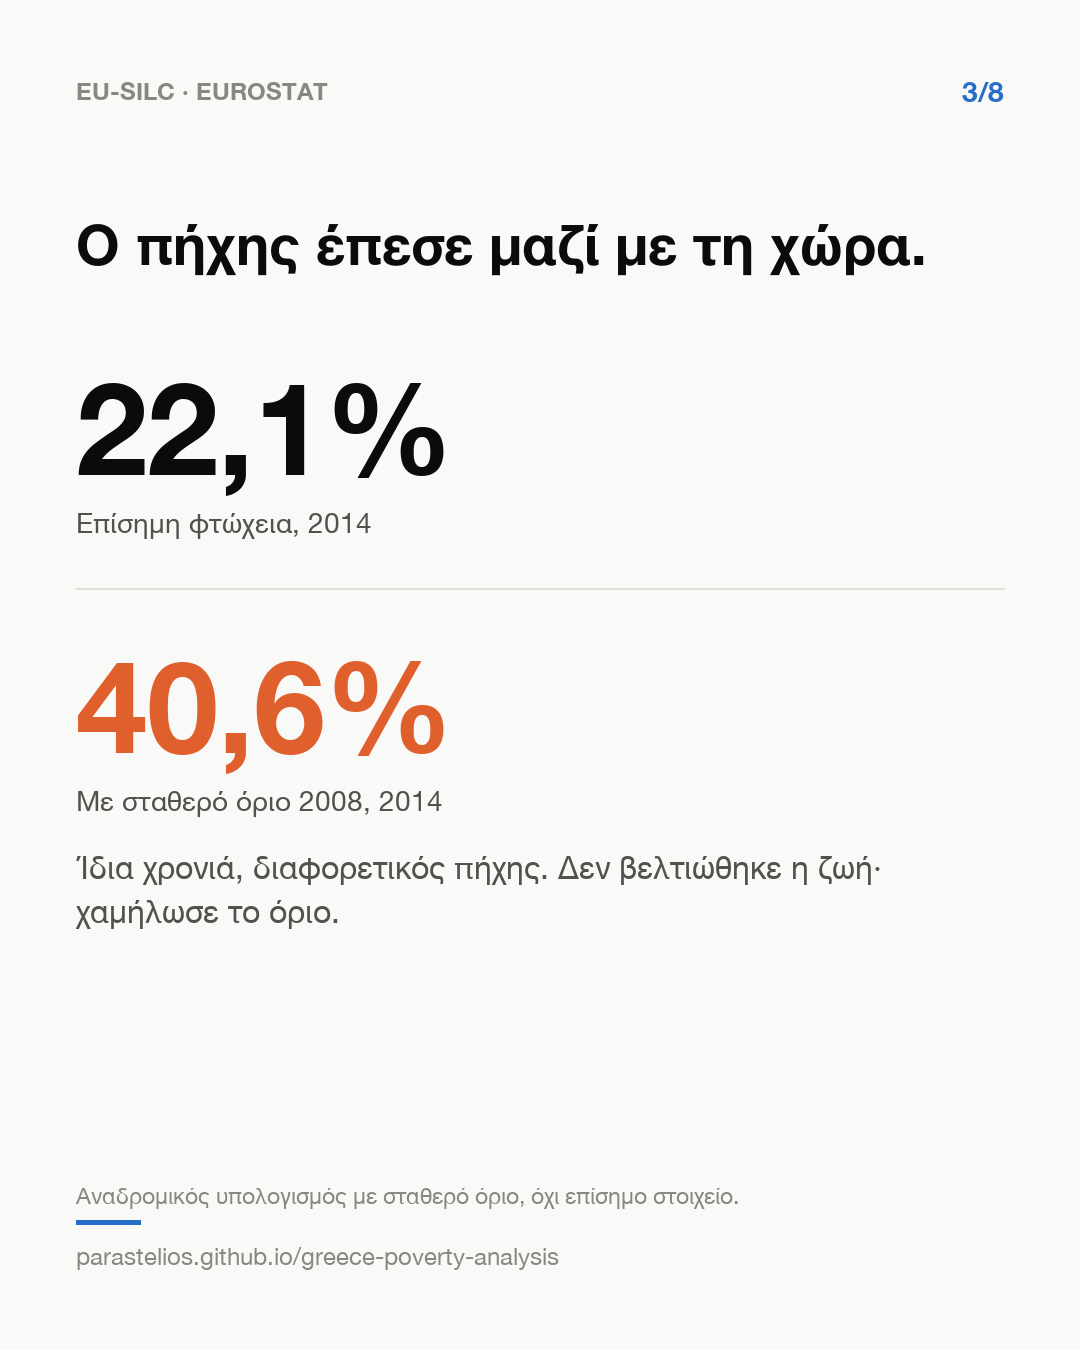
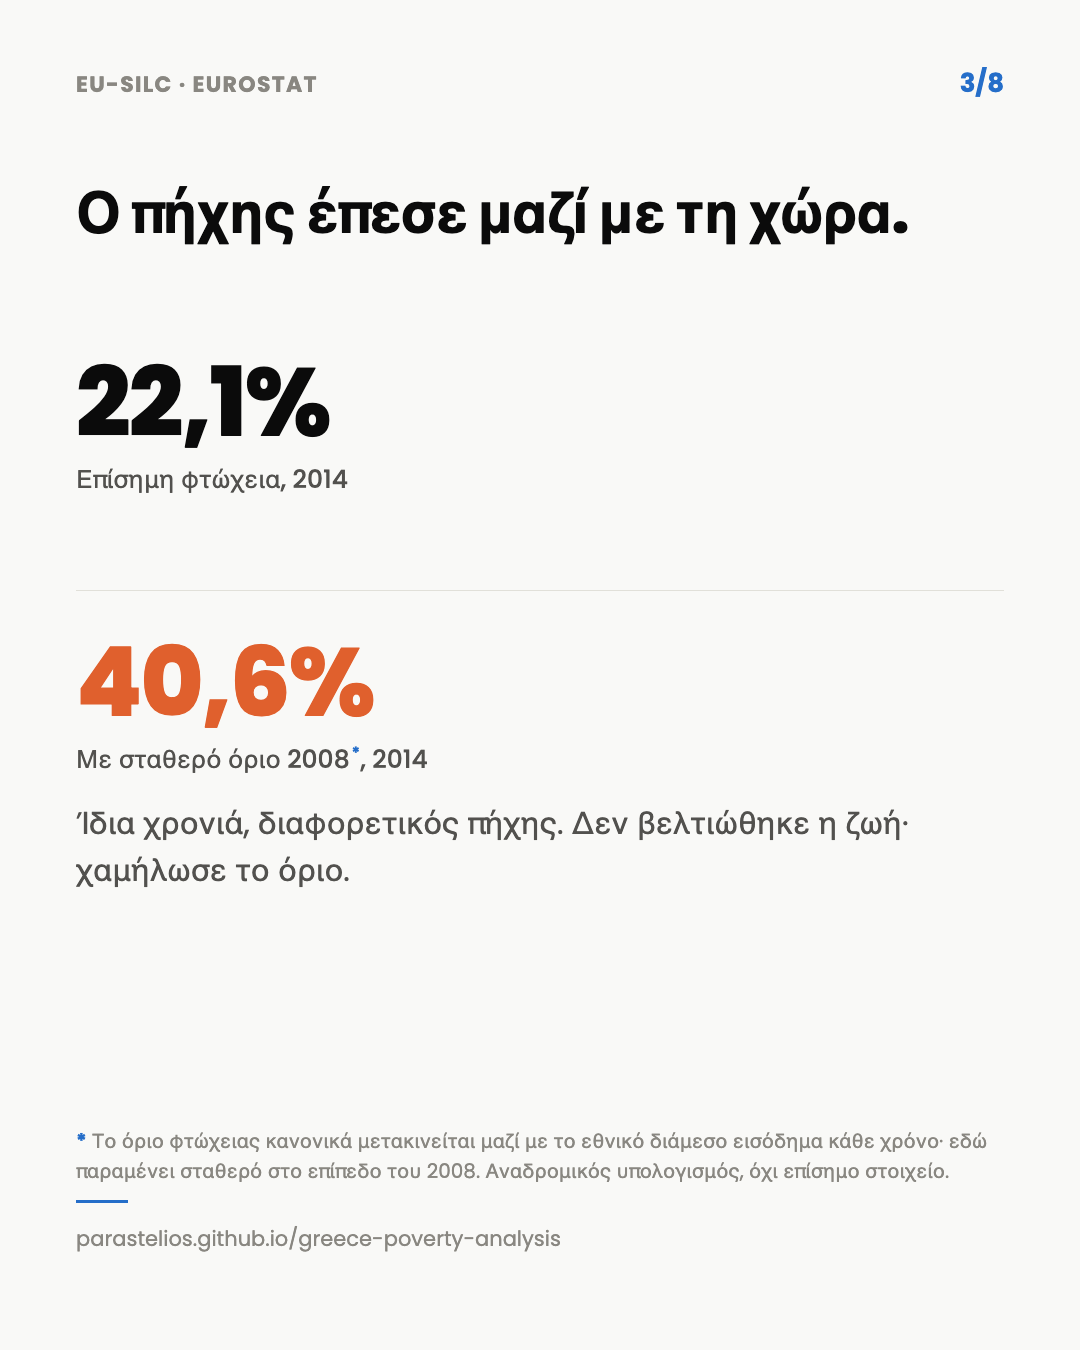
Simplify landing page navigation, fix EN/EL toggle bug, clarify carousel card 3
Fixes from user testing feedback (a friend's read-through of the site):

- The EN/ΕΛ language toggle swapped position depending on which page
  you were on (current language always rendered first), so it
  visibly reordered on every switch. Now fixed left-to-right on both
  pages; only styling marks which is active.
- "Read the story" and "Read the full analysis" both linked to the
  same narrative page under different names -- confusing, since
  "analysis" reads as a different, more technical document. Reworded
  the second to "Read the full story".
- Simplified the page further: replaced the dense, stat-heavy
  opening paragraph with a short standfirst-style hook, matching the
  narrative's own opening; dropped the redundant early CTA between
  the stat cards and the question section; renamed "Options" to "Go
  deeper" and dropped its now-redundant story card, restyling the
  report/appendix cards smaller to read as supplementary material
  rather than equal alternatives to the story.
- Carousel card 3 (the anchored-poverty comparison) led with "fixed
  threshold"/"σταθερό όριο" before explaining what it meant. Added an
  asterisk and a clearer explanation of what "held fixed" means,
  rebuilt from scratch since no source template existed for these
  carousel images in the repo -- colors sampled pixel-for-pixel from
  the original PNG to match exactly, rendered via Playwright at the
  card's native 1080x1350.
[…]

diff --git a/site/el.html b/site/el.html
@@ -49,6 +49,11 @@ h1{font-size:44px;line-height:1.15;letter-spacing:-0.02em;margin:0 0 18px;text-w
 h2{font-size:13px;font-weight:700;letter-spacing:.04em;text-transform:uppercase;
   color:var(--text-muted);margin:48px 0 16px}
 .cards{display:grid;gap:14px}
+.cards-secondary{grid-template-columns:repeat(2,minmax(0,1fr));gap:12px}
+.cards-secondary .card{padding:16px 18px}
+.cards-secondary .card h3{font-size:16px}
+.cards-secondary .card p{font-size:13px}
+@media(max-width:680px){.cards-secondary{grid-template-columns:1fr}}
 a.card{display:block;background:var(--surface-1);border:1px solid var(--border);
   border-radius:12px;padding:22px 24px;text-decoration:none;color:inherit;
   transition:border-color .15s ease, transform .15s ease}
@@ -60,11 +65,11 @@ a.card:focus-visible{outline:2px solid var(--gr);outline-offset:2px}
 .top-row{display:flex;justify-content:space-between;align-items:baseline;gap:12px}
 .lang-switch{font-size:12px;font-weight:600;letter-spacing:.04em;white-space:nowrap}
 .lang-switch .cur{color:var(--text-primary)}
-.lang-switch a{color:var(--text-muted);text-decoration:none;margin-left:8px}
+.lang-switch a{color:var(--text-muted);text-decoration:none}
 .lang-switch a:hover{color:var(--gr)}
+.lang-switch > :last-child{margin-left:8px}
 .note{font-size:13px;color:var(--text-secondary);background:var(--surface-2);
   border-radius:10px;padding:16px 18px;margin:34px 0 0}
-.cta-row{margin:28px 0 0}
 a.cta{display:inline-block;background:var(--gr);color:#fff;font-size:15px;font-weight:650;
   text-decoration:none;padding:13px 26px;border-radius:9px;letter-spacing:-.005em;
   transition:transform .15s ease,opacity .15s ease}
@@ -135,18 +140,16 @@ footer a{color:var(--text-secondary)}
 <div class="wrap">
   <div class="top-row">
     <p class="eyebrow">EU-SILC · Eurostat · 2015–2024</p>
-    <p class="lang-switch"><span class="cur">ΕΛ</span><a href="index.html">EN</a></p>
+    <p class="lang-switch"><a href="index.html">EN</a><span class="cur">ΕΛ</span></p>
   </div>
   <h1>Το ελληνικό παράδοξο της φτώχειας</h1>
-  <p class="dek">Δύο στα τρία ελληνικά νοικοκυριά δηλώνουν ότι δυσκολεύονται να τα βγάλουν πέρα, το υψηλότερο ποσοστό στην ΕΕ, κάθε χρόνο από το 2015. Ο επίσημος δείκτης εισοδηματικής φτώχειας κατατάσσει την Ελλάδα στην 7η υψηλότερη θέση μεταξύ των 27: σοβαρή, αλλά όχι ακραία ευρωπαϊκή επίδοση. Η ανάλυση εξετάζει τι βρίσκεται πίσω από αυτό το μέσο χάσμα των 52,6 ποσοστιαίων μονάδων και πόσο από αυτό μπορούν να εξηγήσουν τα διαθέσιμα στοιχεία.</p>
+  <p class="dek">Η αγορά εργασίας της Ελλάδας ανέκαμψε. Τα νοικοκυριά της όχι. Δύο στα τρία δηλώνουν ότι δυσκολεύονται να τα βγάλουν πέρα &mdash; το υψηλότερο ποσοστό στην ΕΕ &mdash; ενώ ο επίσημος δείκτης φτώχειας φαίνεται πολύ λιγότερο ακραίος. Η ανάλυση εξετάζει γιατί.</p>
 
   <div class="stat-row">
     <div class="tile"><p class="l">Δηλωμένη οικονομική δυσκολία, 2024</p><p class="v gr">66,7% <span class="unit">των νοικοκυριών</span></p><p class="s">έναντι 17,1% στη διάμεση χώρα της ΕΕ · 1η θέση</p></div>
     <div class="tile"><p class="l">Εισοδηματική φτώχεια (AROP), 2024</p><p class="v">19,6% <span class="unit">των ανθρώπων</span></p><p class="s">έναντι 15,5% στη διάμεση χώρα της ΕΕ · 7η θέση</p></div>
     <div class="tile"><p class="l">Μέσο χάσμα, 2015–2024</p><p class="v">52,6 <span class="unit">π.μ.</span></p><p class="s">ποσοστιαίες μονάδες · σε μεγάλο βαθμό ανεξήγητο</p></div>
   </div>
-
-  <p class="cta-row"><a class="cta" href="narrative_el.html">Διαβάστε την ιστορία →</a></p>
 
   <div class="research-q">
     <p class="rq-title">Το ερώτημα πίσω από τους αριθμούς</p>
@@ -188,17 +191,12 @@ footer a{color:var(--text-secondary)}
       <p class="carousel-count" data-count-for="car-el" aria-live="polite">1 / 8</p>
     </div>
   </div>
-  <p class="carousel-cta"><a class="cta" href="narrative_el.html">Διαβάστε ολόκληρη την ανάλυση →</a></p>
+  <p class="carousel-cta"><a class="cta" href="narrative_el.html">Διαβάστε ολόκληρη την ιστορία →</a></p>
 
   <p class="note"><b>Τι δείχνει η ανάλυση.</b> Η οικονομική δυσκολία που δηλώνουν τα νοικοκυριά δεν μπορεί να απορριφθεί ως απλή απαισιοδοξία. Συμβαδίζει με συγκεκριμένες υλικές στερήσεις και με ένα ευρύτερο μοτίβο πίεσης στους μισθούς, στην αγοραστική δύναμη, στην απασχόληση και στη στέγαση.<br><br>Κανένας παράγοντας, όμως, δεν εξηγεί μόνος του το μέσο χάσμα των 52,6 ποσοστιαίων μονάδων. Τα αποτελέσματα δείχνουν σχέσεις μεταξύ χωρών, όχι τι προκαλεί τη δυσκολία μέσα σε κάθε νοικοκυριό.</p>
 
-  <h2>Επιλογές</h2>
-  <div class="cards">
-    <a class="card" href="narrative_el.html">
-      <h3>Η ιστορία →</h3>
-      <p>Τι συνέβη και γιατί, σε απλή γλώσσα, σε οκτώ ενότητες, χωρίς τους τεχνικούς πίνακες του μοντέλου.</p>
-      <p class="meta">εκτενές άρθρο · περίπου 55 λεπτά ανάγνωσης</p>
-    </a>
+  <h2>Για περισσότερα</h2>
+  <div class="cards cards-secondary">
     <a class="card" href="report.html">
       <h3>Η τεχνική αναφορά →</h3>
       <p>Το πλήρες αρχείο τεκμηρίωσης: κάθε μοντέλο, έλεγχος αντοχής, μηδενικό αποτέλεσμα και μεθοδολογική επιφύλαξη, με διαδραστικά γραφήματα.</p>

diff --git a/site/index.html b/site/index.html
@@ -49,6 +49,11 @@ h1{font-size:46px;line-height:1.1;letter-spacing:-0.02em;margin:0 0 18px;text-wr
 h2{font-size:13px;font-weight:700;letter-spacing:.04em;text-transform:uppercase;
   color:var(--text-muted);margin:48px 0 16px}
 .cards{display:grid;gap:14px}
+.cards-secondary{grid-template-columns:repeat(2,minmax(0,1fr));gap:12px}
+.cards-secondary .card{padding:16px 18px}
+.cards-secondary .card h3{font-size:16px}
+.cards-secondary .card p{font-size:13px}
+@media(max-width:680px){.cards-secondary{grid-template-columns:1fr}}
 a.card{display:block;background:var(--surface-1);border:1px solid var(--border);
   border-radius:12px;padding:22px 24px;text-decoration:none;color:inherit;
   transition:border-color .15s ease, transform .15s ease}
@@ -60,11 +65,11 @@ a.card:focus-visible{outline:2px solid var(--gr);outline-offset:2px}
 .top-row{display:flex;justify-content:space-between;align-items:baseline;gap:12px}
 .lang-switch{font-size:12px;font-weight:600;letter-spacing:.04em;white-space:nowrap}
 .lang-switch .cur{color:var(--text-primary)}
-.lang-switch a{color:var(--text-muted);text-decoration:none;margin-left:8px}
+.lang-switch a{color:var(--text-muted);text-decoration:none}
 .lang-switch a:hover{color:var(--gr)}
+.lang-switch > :last-child{margin-left:8px}
 .note{font-size:13px;color:var(--text-secondary);background:var(--surface-2);
   border-radius:10px;padding:16px 18px;margin:34px 0 0}
-.cta-row{margin:28px 0 0}
 a.cta{display:inline-block;background:var(--gr);color:#fff;font-size:15px;font-weight:650;
   text-decoration:none;padding:13px 26px;border-radius:9px;letter-spacing:-.005em;
   transition:transform .15s ease,opacity .15s ease}
@@ -138,15 +143,13 @@ footer a{color:var(--text-secondary)}
     <p class="lang-switch"><span class="cur">EN</span><a href="el.html">ΕΛ</a></p>
   </div>
   <h1>The Greek Poverty Paradox</h1>
-  <p class="dek">Since 2015, Greece has recorded the EU's highest rate of reported difficulty making ends meet: roughly two in three households. Yet the official income-poverty rate places Greece seventh-highest among the 27 member states, a serious but far less exceptional position. This project examines what lies behind the average 52.6-percentage-point gap between those two measures and how much of it the available evidence can explain.</p>
+  <p class="dek">Greece's labour market recovered. Its households did not. Two in three say they're struggling to make ends meet &mdash; the EU's highest share &mdash; while the official poverty rate looks far less exceptional. This project asks why.</p>
 
   <div class="stat-row">
     <div class="tile"><p class="l">Reported hardship, 2024</p><p class="v gr">66.7% <span class="unit">of households</span></p><p class="s">EU-country median: 17.1% · highest of 27</p></div>
     <div class="tile"><p class="l">Income poverty (AROP), 2024</p><p class="v">19.6% <span class="unit">of people</span></p><p class="s">EU-country median: 15.5% · 7th highest of 27</p></div>
     <div class="tile"><p class="l">Average gap, 2015–2024</p><p class="v">52.6 <span class="unit">pp</span></p><p class="s">largely unexplained</p></div>
   </div>
-
-  <p class="cta-row"><a class="cta" href="narrative.html">Read the story →</a></p>
 
   <div class="research-q">
     <p class="rq-title">The question behind the numbers</p>
@@ -188,17 +191,12 @@ footer a{color:var(--text-secondary)}
       <p class="carousel-count" data-count-for="car-en" aria-live="polite">1 / 8</p>
     </div>
   </div>
-  <p class="carousel-cta"><a class="cta" href="narrative.html">Read the full analysis →</a></p>
+  <p class="carousel-cta"><a class="cta" href="narrative.html">Read the full story →</a></p>
 
   <p class="note"><b>What the analysis finds.</b> Reported hardship cannot be dismissed as pessimism alone. It moves with specific material difficulties and with broader pressures involving wages, purchasing power, unemployment and housing.<br><br>No single factor, however, robustly explains the full 52.6-percentage-point average gap. The results show associations between countries, not that any one factor causes hardship within individual households.</p>
 
-  <h2>Options</h2>
-  <div class="cards">
-    <a class="card" href="narrative.html">
-      <h3>The story →</h3>
-      <p>What happened and why, in plain language, in eight sections. Start here if you want the explanation without the model tables.</p>
-      <p class="meta">long read · general audience</p>
-    </a>
+  <h2>Go deeper</h2>
+  <div class="cards cards-secondary">
     <a class="card" href="report.html">
       <h3>The technical report →</h3>
       <p>The complete evidence record: every model, robustness check, null result, and methodological caveat, with interactive charts.</p>
